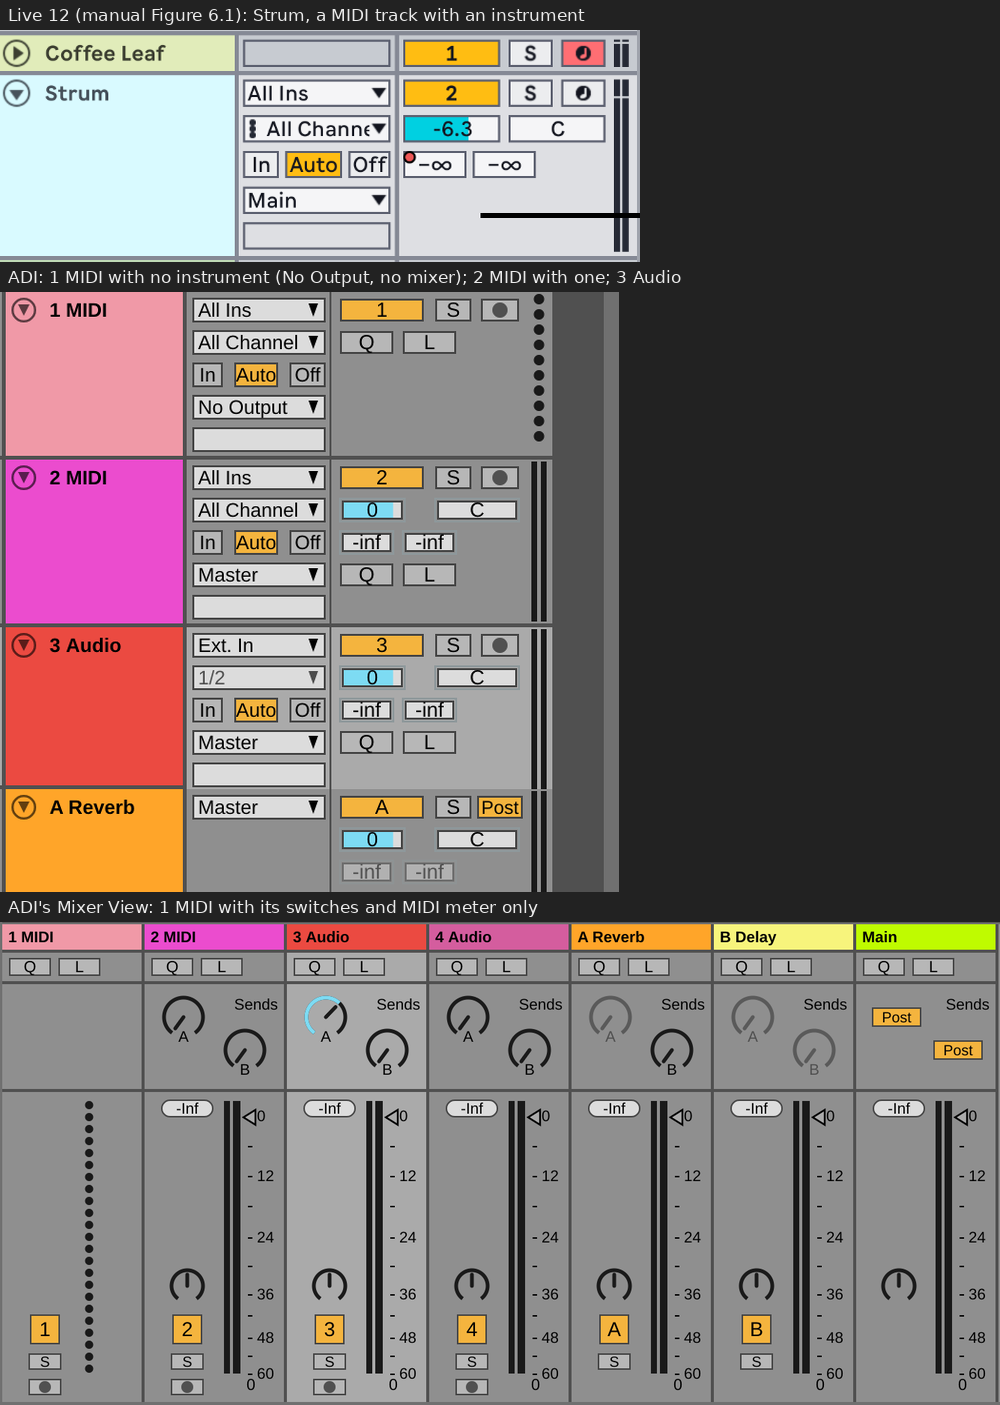
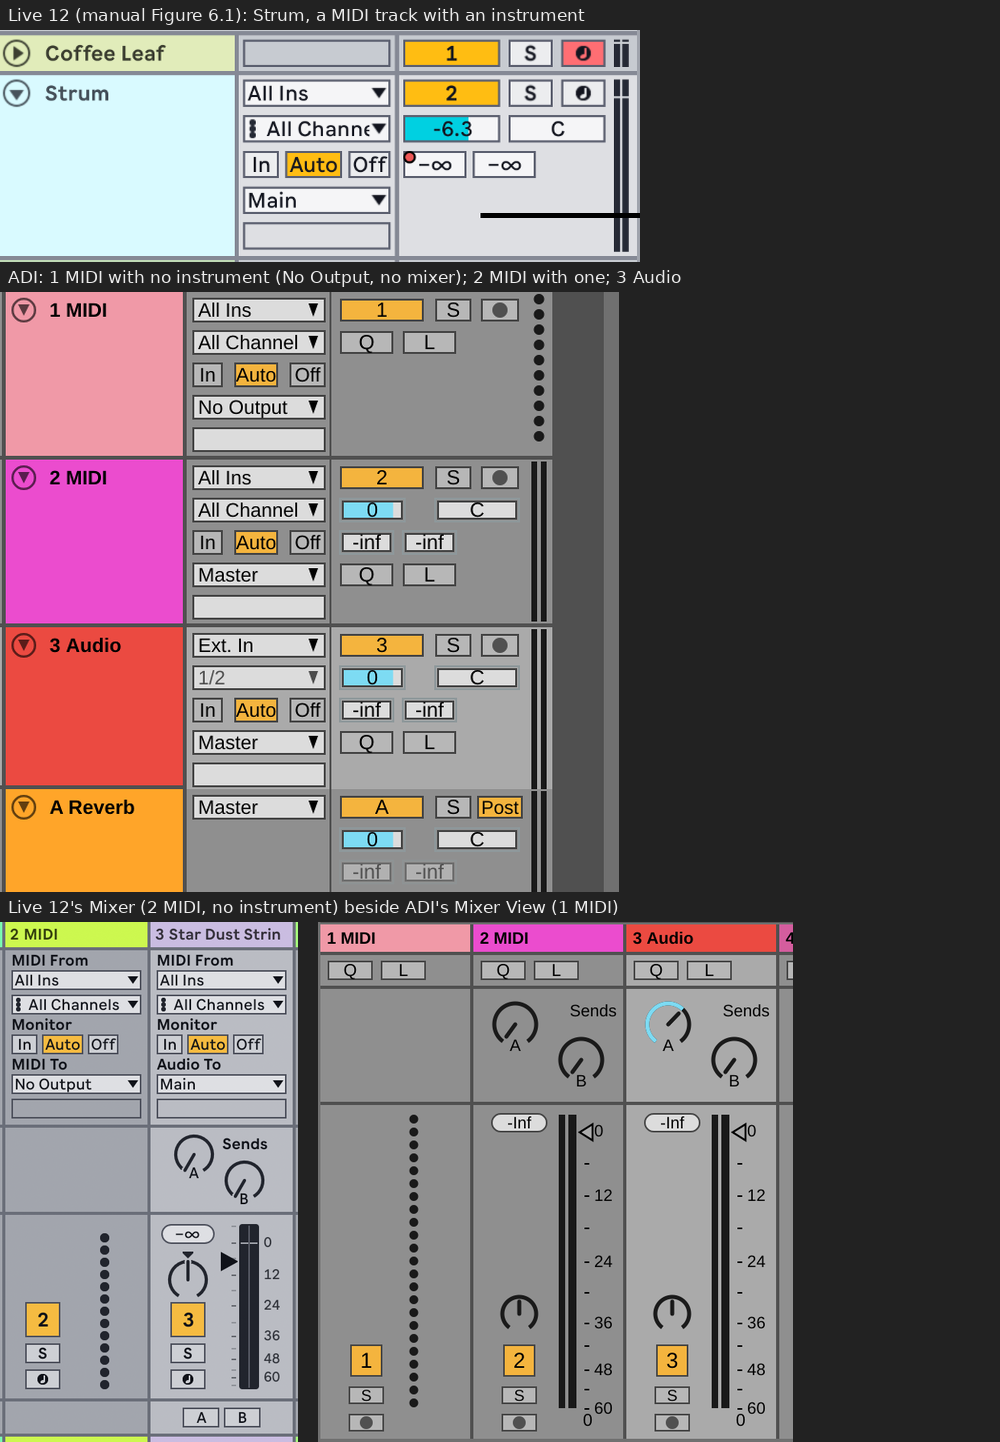
adi_daw: the MIDI rows' picture with Live 12's Mixer strip of a MIDI track with no instrument
Claude-Session: https://claude.ai/code/session_013uiiLKvKvN8fsTi5qRHzxp

diff --git a/adi_daw/collab/window/parity-7.6-mixer.md b/adi_daw/collab/window/parity-7.6-mixer.md
@@ -25,4 +25,4 @@ Drafted by the window lane (ADR-0208) from the Live 12 manual (`live12-manual-en
 | 15 | Only what is on screen is realised | UI-ARCHITECTURE §10 | Rows for the visible lanes only, recycled on scroll; a steady frame allocates nothing | built |
 | 16 | The mixer from the keyboard: Move Focus to Mixer (Alt+Shift+M, Option on the Mac); Next and Previous Neighbor (Ctrl+Tab and Ctrl+Shift+Tab, Option on the Mac, also in the Navigate menu) move to the same control on the next or previous track | online §41.4.1.2, §42.16 | Alt/Option+Shift+M focuses the selected track's Track Activator, in the Mixer View when it is open, else in the track controls, shown first if hidden. The Neighbor keys move between the same switches (Activator, Solo, Arm, ADI-Q, ADI-L) track to track; at either end the focus stays. A neighbour out of view is brought into view first: the Mixer View scrolls sideways, the track controls with the arrangement, a row's top kept in view (`window/mixer-scroll`). A click on a mixer switch no longer takes the keyboard focus, so a focused one is always the keyboard's, and Live 12's ring marks it (`window/mixer-keys`) | partial: volume and pan take no keyboard focus. Keys that change a value wait for win's ruling on how a non-parameter edit coalesces (row 3). |
 | 17 | A return's row and strip: its letter in the activator, Solo, and Pre/Post where a track has Arm; Main's: no activator, Solo or Arm, its output (1/2), its volume and the cue volume; in the Mixer, Main's Sends section holds each return's Pre/Post | Live 12's Arrangement and Mixer figures (manual 6.1, 6.15); ADR-0203 d3 | A return's activator shows its letter (A, B, in the returns' order); its Pre/Post sits where a track has Arm, lit while its sends tap after the fader; its In/Out column shows only its output. Main's row has no activator, Solo or Arm, its volume where a track has its activator, and only its output, 1/2, in the In/Out column. In the Mixer View, a return's strip has no Arm, Main's no activator, Solo or Arm, and Main's Sends section holds each return's Pre/Post switch where a track has its knobs. Next and Previous Neighbor pass Main by for the activator, Solo and Arm (`window/return-main-rows`) | partial: Main's cue volume and Live's Solo/Cue switch wait for a cue volume in the format and an op (N43); a return's own Pre/Post without sends waits for N42. Measure on Live: whether Post is lit or Pre |
-| 18 | A MIDI track's row and strip: All Ins and All Channels; with no instrument, no volume, pan or sends, No Output, and a MIDI meter; with one, the audio mixer and Main | look-live11.md difference row 3 (the director's Live 11.2.7 capture); Live 12 manual Figure 6.1 (Strum) | A MIDI or instrument track shows All Ins and All Channels, cut at the box's edge as Live cuts "All Channe". What the track holds decides its mixer (ADR-0045): with no instrument plug-in on it (`plugin_refs.subtype`, read into the window's device publication), no volume, pan or sends, No Output, ADI-Q and ADI-L on the second row, and a MIDI meter of dark dots in a column (Live 12 manual, the Mixer in Arrangement View, 2 MIDI); in the Mixer View its switches and that meter only; an instrument on it brings the volume, pan, a send per return and Master (`window/midi-rows`) | partial: the MIDI meter stays dark (no note activity reaches the window yet); a rack's kind has no values in the format, so an instrument rack does not count yet; measure Live's MIDI meter, its MIDI Arm icon and whether a MIDI track with no instrument shows sends |
+| 18 | A MIDI track's row and strip: All Ins and All Channels; with no instrument, no volume, pan or sends, No Output, and a MIDI meter; with one, the audio mixer and Main | look-live11.md difference row 3 (the director's Live 11.2.7 capture); Live 12 manual Figure 6.1 (Strum) | A MIDI or instrument track shows All Ins and All Channels, cut at the box's edge as Live cuts "All Channe". What the track holds decides its mixer (ADR-0045): with no instrument plug-in on it (`plugin_refs.subtype`, read into the window's device publication), no volume, pan or sends, No Output, ADI-Q and ADI-L on the second row, and a MIDI meter of dark dots in a column (Live 12 manual, the Mixer in Arrangement View, 2 MIDI); in the Mixer View its switches and that meter only; an instrument on it brings the volume, pan, a send per return and Master (`window/midi-rows`) | partial: the MIDI meter stays dark (no note activity reaches the window yet); a rack's kind has no values in the format, so an instrument rack does not count yet; Live 12's Mixer figure shows such a track with no sends and a blank Sends section, as ADI's; measure Live's MIDI Arm icon |
